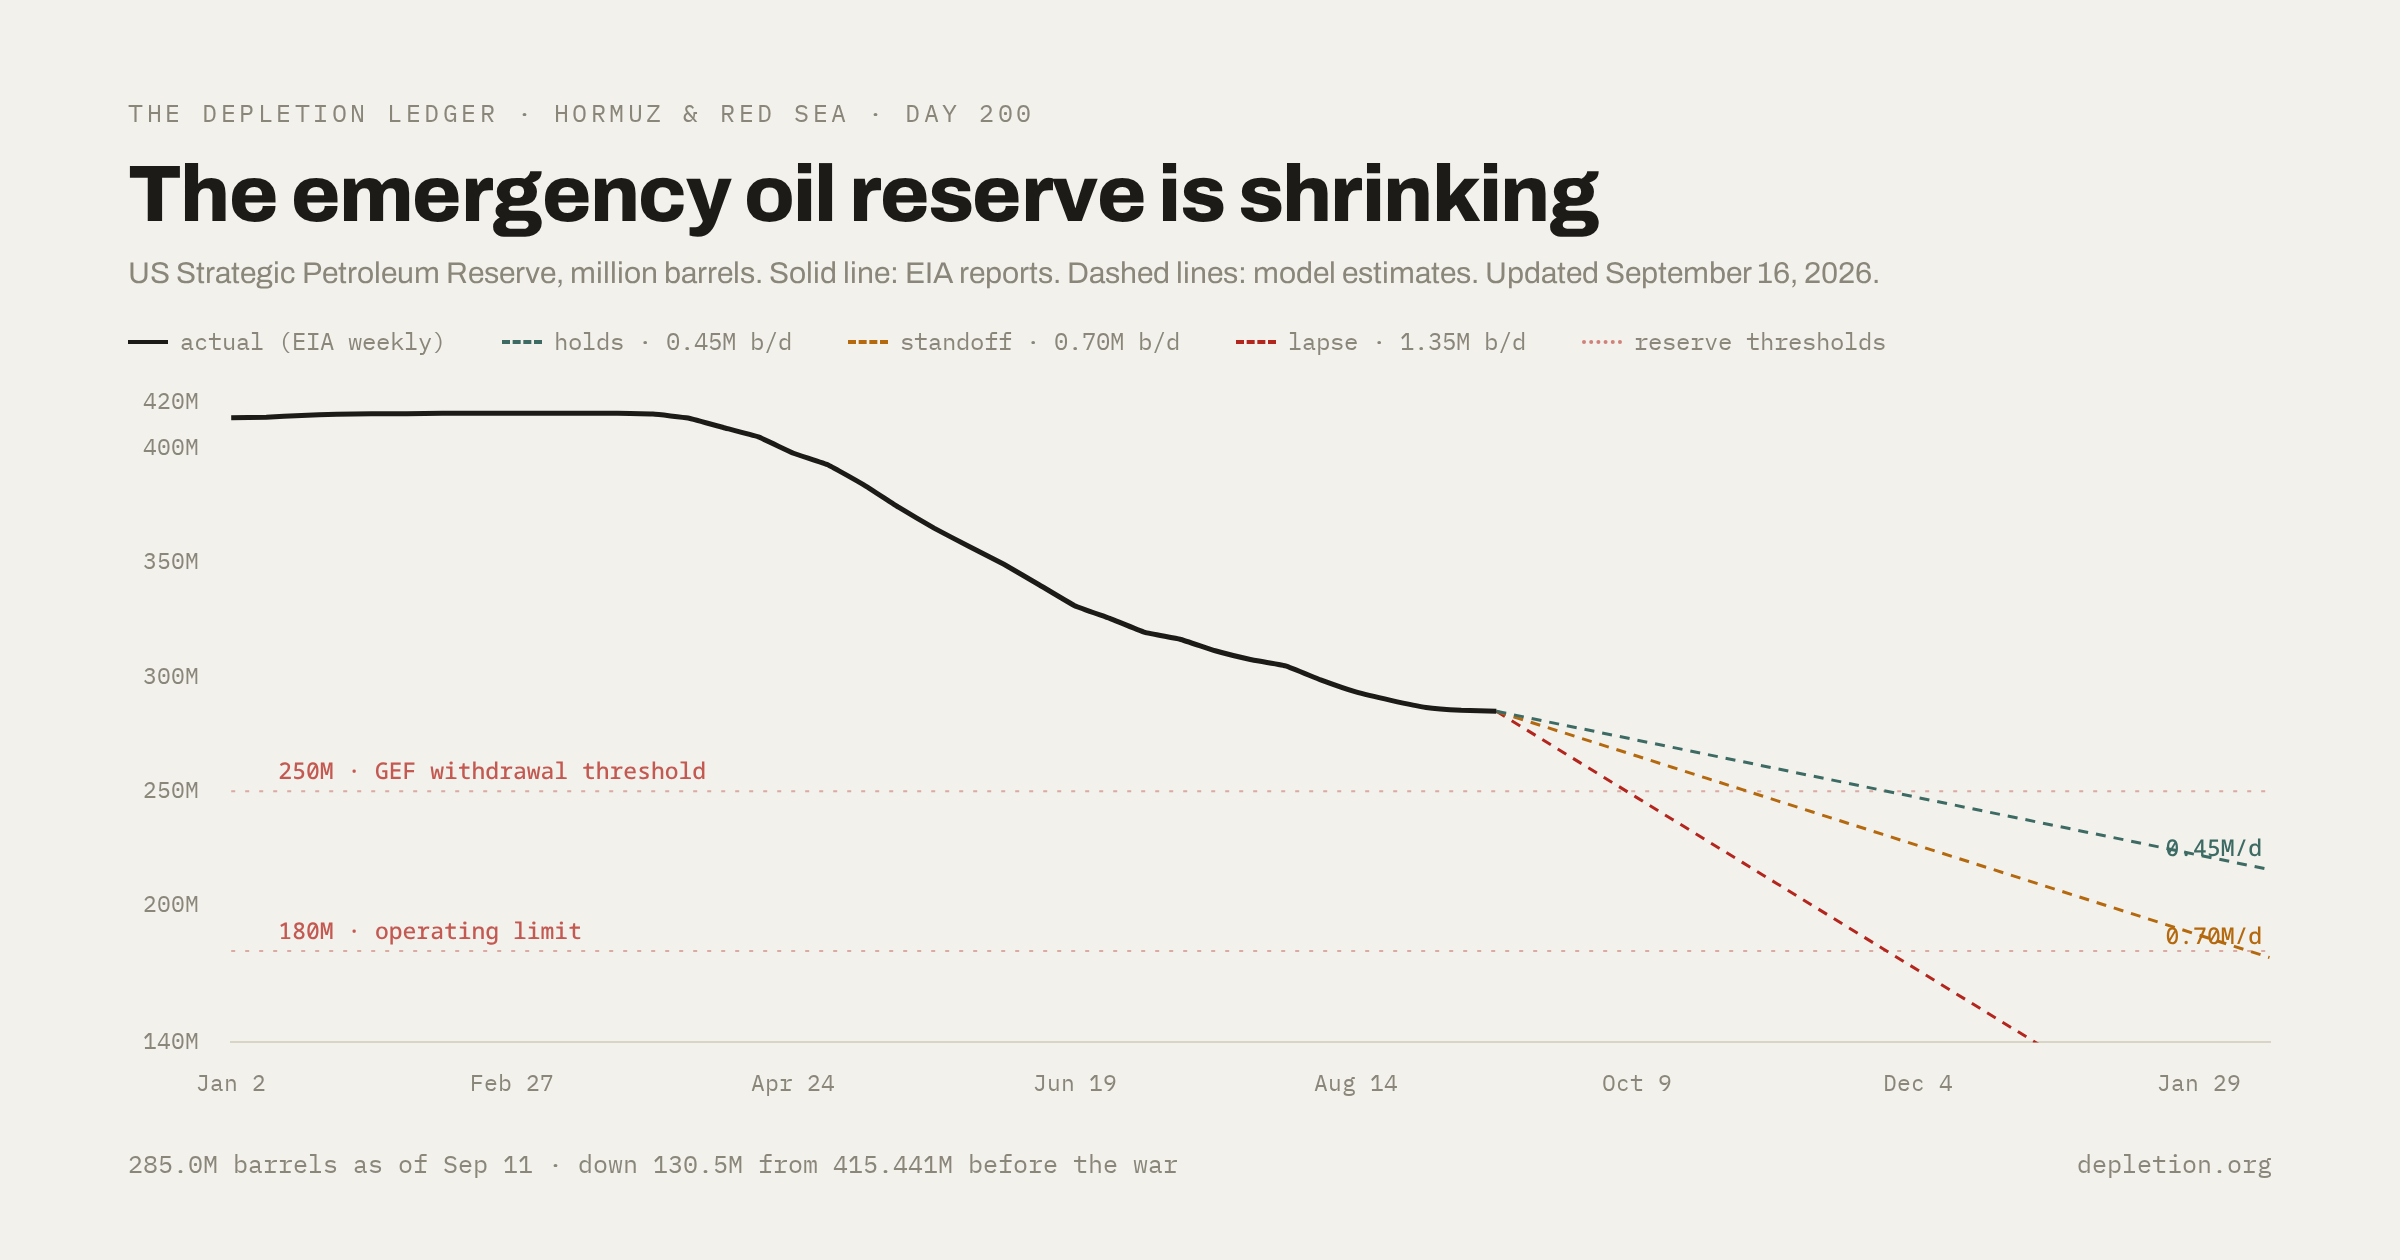
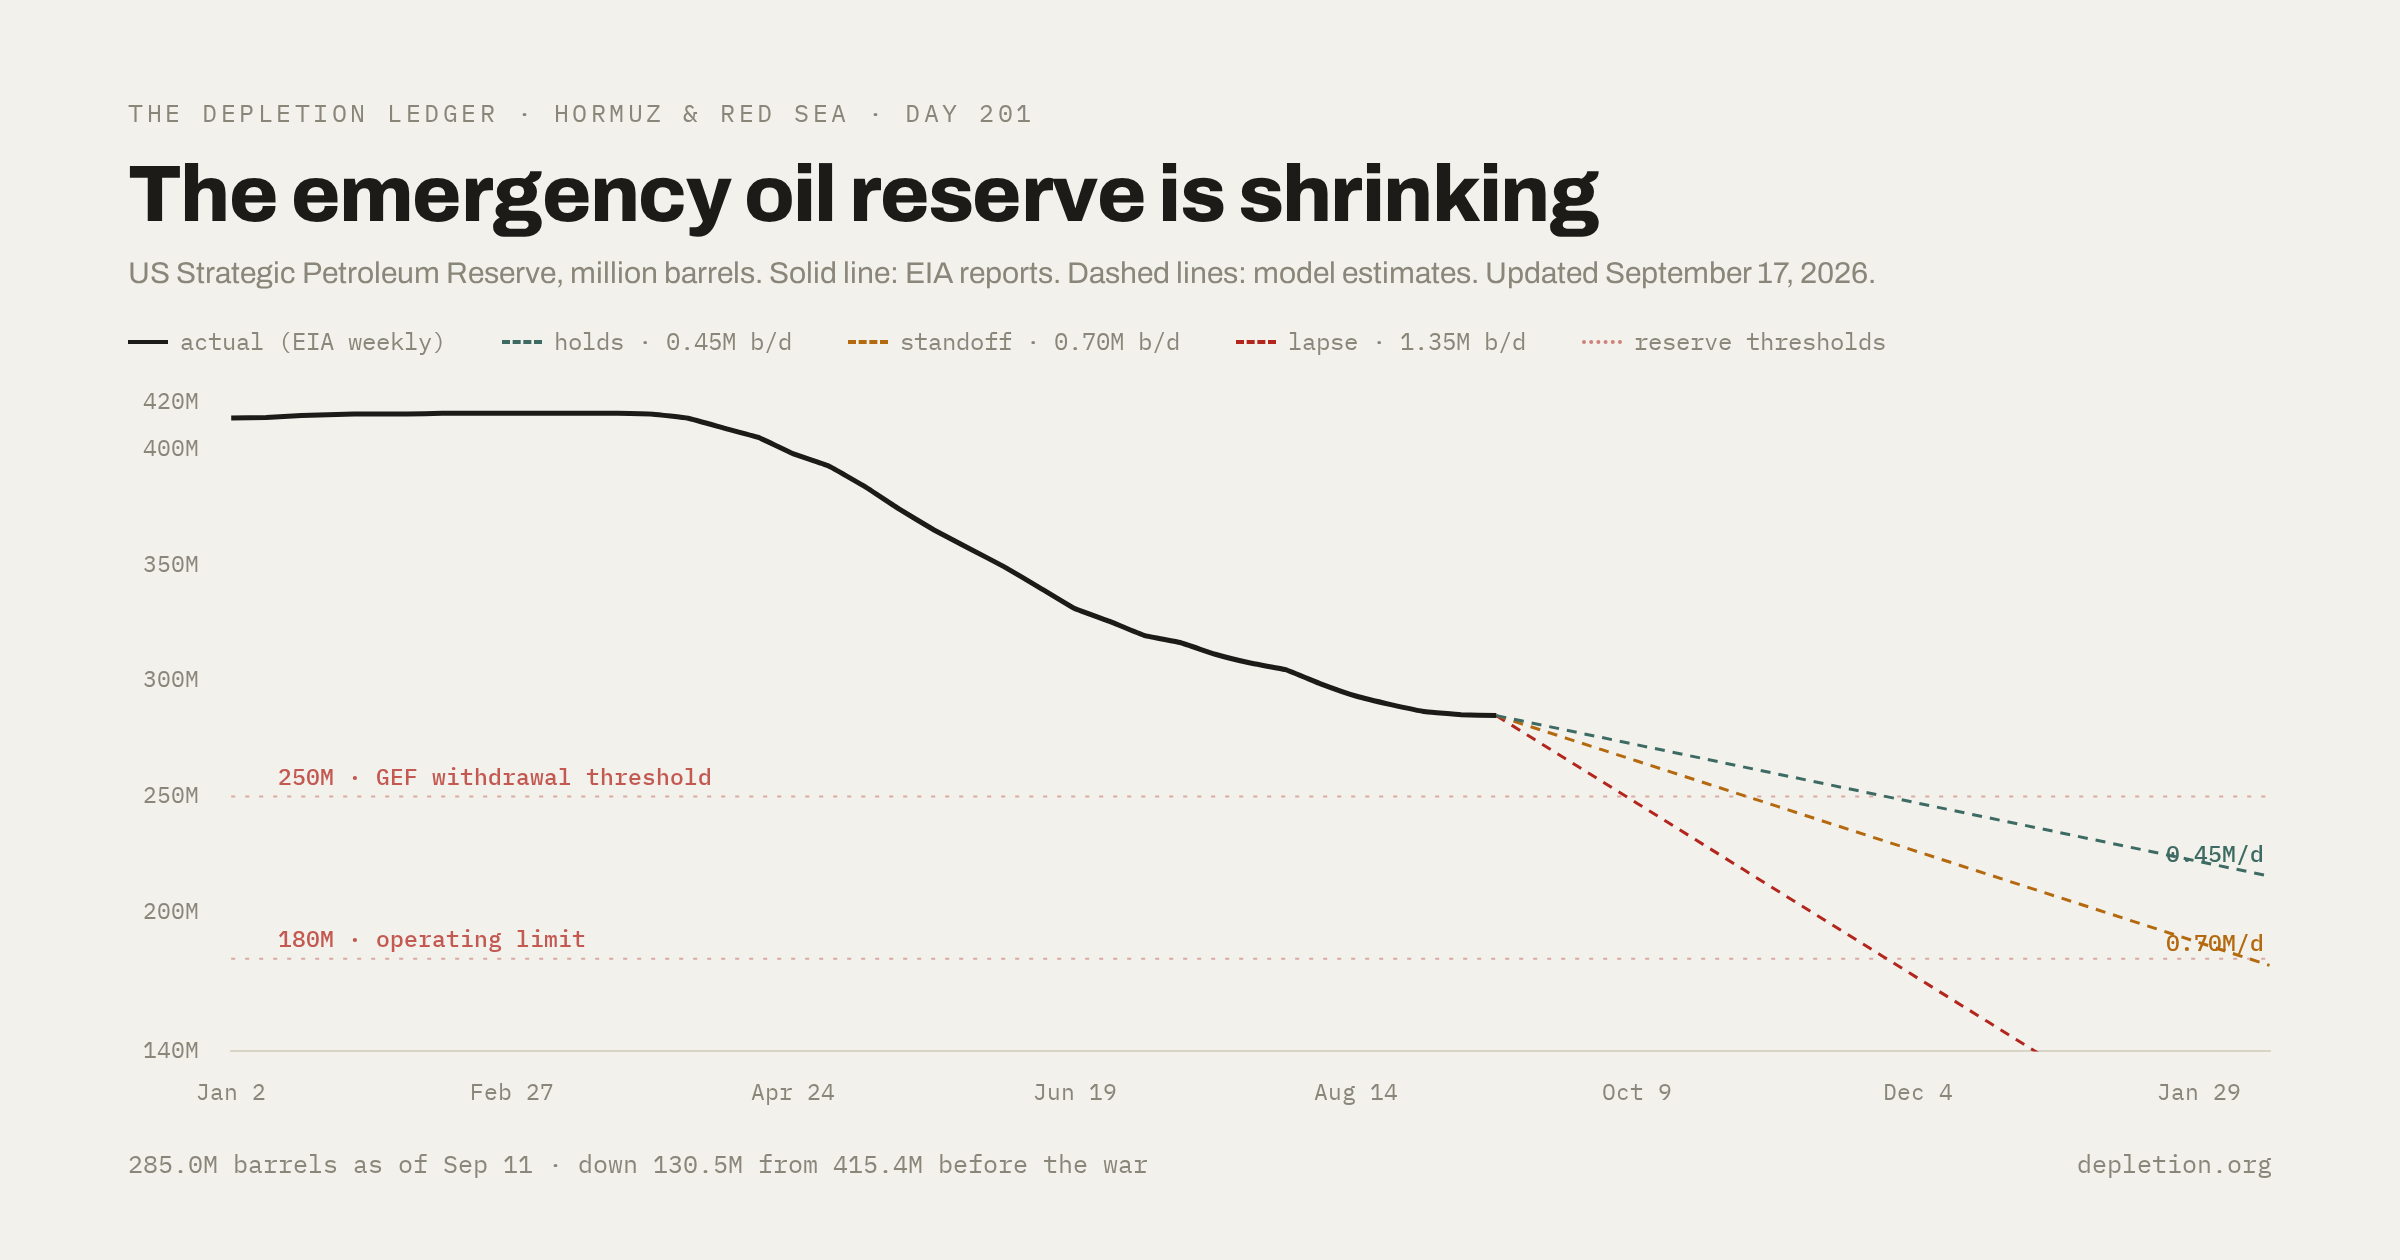
2026-09-17

diff --git a/site/src/data/crisis.ts b/site/src/data/crisis.ts
@@ -6,7 +6,7 @@
 // real observation with a source; `approx: true` marks a source's rounded estimate
 // (e.g. "Brent near $80 on Jun 22") and renders as a hollow marker.
 
-export const DATA_AS_OF = "2026-09-16";
+export const DATA_AS_OF = "2026-09-17";
 // War began Feb 28, 2026 (report: "Pre-war (Feb 28)"; ACLED damage inventory "since Feb 28"; IEA supply loss "since Feb").
 // Day count = days elapsed since Feb 28 → Sep 9, 2026 = Day 193.
 export const CRISIS_DAY_1 = "2026-02-28";
@@ -21,9 +21,9 @@ export interface SeriesPoint {
 
 // ---------- Headline stats ----------
 export const stats = [
-  { label: "Brent", value: "$105.83", sub: "Sep 16 settlement · −2.7% · +39% vs pre-crisis ~$76" },
-  { label: "US diesel (AAA)", value: "$6.31", sub: "Sep 16 · all-time record $6.3103 · seventh day in a row · +70% vs pre-war $3.72" },
-  { label: "US gasoline (AAA)", value: "$4.37", sub: "Sep 16 · +14¢ in a week (AAA) · +55% vs Jan $2.81" },
+  { label: "Brent", value: "$105.83", sub: "Sep 16 settlement · −2.7% vs. prior close $108.75 (Sep 15) · +39% vs pre-crisis ~$76" },
+  { label: "US diesel (AAA)", value: "$6.40", sub: "Sep 17 · all-time record $6.3956 · eighth day in a row · +72% vs pre-war $3.72" },
+  { label: "US gasoline (AAA)", value: "$4.44", sub: "Sep 17 · +16¢ in a week (AAA) · +58% vs Jan $2.81" },
   { label: "SPR", value: "285.0M", sub: "Sep 11 · down 0.4M in a week · down 130.5M from pre-war 415.4M · lowest since Nov 1982" },
   { label: "US diesel & heating oil", value: "107.9M", sub: "Sep 11 · up 1.6M in a week · 13.5% below last year · East Coast stocks 31% below last year" },
 ];
@@ -166,6 +166,7 @@ export const gasolineYtd: SeriesPoint[] = [
   { date: "2026-09-14", value: 4.3163, note: "AAA release Sep 14 (logged)" },
   { date: "2026-09-15", value: 4.3289, note: "AAA release, Sep 15" },
   { date: "2026-09-16", value: 4.3672, note: "AAA release, Sep 16" },
+  { date: "2026-09-17", value: 4.4386, note: "AAA release, Sep 17" },
 ];
 export const gasolinePreCrisis = 2.81; // Jan 2026 monthly avg (BTS/EIA)
 
@@ -189,6 +190,7 @@ export const dieselYtd: SeriesPoint[] = [
   { date: "2026-09-14", value: 6.2301, note: "AAA record — fifth consecutive day" },
   { date: "2026-09-15", value: 6.2694, note: "AAA record — sixth consecutive day, up 36.8¢ from $5.9012 a week earlier" },
   { date: "2026-09-16", value: 6.3103, note: "AAA record — seventh consecutive day, first above $6.30, up 36.8¢ from $5.9424 a week earlier" },
+  { date: "2026-09-17", value: 6.3956, note: "AAA record — eighth consecutive day, up 41.8¢ from $5.9773 a week earlier" },
 ];
 export const dieselOldRecord = 5.85; // June 2022 AAA record (broken Sep 4)
 
@@ -394,7 +396,7 @@ export const worldBalance = [
 // sections), except the demand-destruction line: IEA OMR, Sep 11 edition
 export const billLedger = [
   { name: "Global commercial stocks", value: "−400M bbl", note: "year-to-date · EIA est. (Sep 9)" },
-  { name: "US Strategic Petroleum Reserve", value: "−129M bbl", note: "since Feb 28 · EIA" },
+  { name: "US Strategic Petroleum Reserve", value: "−130.5M bbl", note: "since Feb 28 · EIA" },
   { name: "IEA coordinated release", value: "400M bbl", note: "pulled from 32 countries · IEA" },
   { name: "China commercial stockpiles", value: "~2–3M b/d", note: "withdrawals inferred from customs data · official SPR untouched" },
   { name: "Decline in oil demand", value: "−2.5M b/d", note: "full-year 2026, cut from −1.6 in the August edition · IEA OMR, Sep 11" },
@@ -511,18 +513,19 @@ export const watchGroups: { when: string; items: WatchItem[] }[] = [
   {
     when: "Any day",
     items: [
-      { item: "An official repair estimate for the East–West pipeline. AP reports 3–5 weeks; industry sources cited by Reuters estimate five to six weeks for full repairs; Saudi officials have told reporters 'multiple weeks,' but no official damage assessment or repair schedule has been published — and the US energy secretary has called the outage 'measured in days.' Reuters reported on Sep 15 that shipments from Yanbu, the port supplied by the pipeline, had stopped. Aramco has also cancelled or delayed shipments to Europe scheduled for late September.", why: "The standoff scenario depends on this bypass. Rystad warns that prices could rise further if the disruption outlasts Yanbu's five to seven days of stored supplies. An official assessment that repairs will take only days would reverse the Sep 11 change in odds." },
-      { item: "A new date for the Gulf–Iran talks in Salalah, postponed from Sep 14. Iran says Saudi Arabia requested the delay because of events in Yemen.", why: "Resuming the talks could help restore tanker access through Hormuz." },
-      { item: "Shipping conditions after the Houthis captured the Hanish islands on Sep 13–14. The Houthis claim 85 vessels passed through Bab el-Mandeb in 72 hours. Missile and drone attacks on Saudi cities wounded 13 civilians on Sep 13–14.", why: "An attack on a non-Saudi vessel would raise the model's odds that the shipping corridor closes." },
-      { item: "How banks respond to the Sep 14 sanctions on Russia's VTB; Treasury is meeting with financial institutions this week.", why: "If banks stop handling VTB's payments, Iran loses channels for receiving oil revenue." },
-      { item: "How many ships are passing through Hormuz. Kpler/Reuters counted 7 vessels on Sep 14 (revised up from a preliminary count of 4) and 4 on Sep 15 — two in, two out, none a crude carrier or LNG tanker. A US official told Axios that an average of 40 ships a day transit under US guidance, exporting roughly 14 million barrels a day. Ship-tracking data shows far fewer.", why: "The official account and the tracking data give different pictures of shipping through Hormuz. A sustained drop below the current level would undercut the claimed volume." },
-      { item: "A new round of the SPR exchange program. About 133.6 million barrels of the announced 172-million-barrel program were awarded across five rounds (March–June). The June round awarded only 500,000 barrels of the 40 million offered. Existing deliveries may be nearing completion, but their remaining volume and end date haven't been confirmed. Companies must return the borrowed crude plus additional barrels under their contracts.", why: "New contracts and deliveries could increase withdrawals again. The amount awarded would show how much oil companies are willing to take under the offered terms." },
+      { item: "An official repair estimate for the East–West pipeline.", why: "The standoff scenario depends on this bypass. An official assessment that repairs will take only days would reverse the Sep 11 change in odds." },
+      { item: "A new date for the Gulf–Iran talks in Salalah, postponed from Sep 14.", why: "Resuming the talks could help restore tanker access through Hormuz." },
+      { item: "Whether attacks in Bab el-Mandeb spread to non-Saudi vessels.", why: "An attack on a non-Saudi vessel would raise the model's odds that the shipping corridor closes." },
+      { item: "How banks respond to the Sep 14 sanctions on Russia's VTB.", why: "If banks stop handling VTB's payments, Iran loses channels for receiving oil revenue." },
+      { item: "Whether US–Houthi talks lead to an easing of the blockade of Saudi ships.", why: "That would help shipping through Bab el-Mandeb and support the standoff scenario." },
+      { item: "Whether ship-tracking data supports US claims about traffic through Hormuz.", why: "Trackers and US officials report different levels of traffic. A sustained drop in crossings would undercut the claimed oil volume." },
+      { item: "New SPR exchange contracts and delivery schedules.", why: "Existing deliveries may be nearing completion, but the end date isn't confirmed. New deliveries could increase withdrawals." },
     ],
   },
   {
     when: "Sep 23",
     items: [
-      { item: "The EIA's report for the week ending Sep 18 — the first that partially covers the shutdown of Yanbu loadings. The last report showed a third straight week of slower SPR withdrawals (0.4M barrels) and a second weekly increase in diesel stocks. It doesn't yet show the pipeline shutdown's full effect.", why: "Watch for faster reserve withdrawals, a larger drop in commercial crude stocks, or falling diesel stocks. Those changes could show how the shutdown is affecting supplies. The Department of Energy could announce a change in withdrawals before the report." },
+      { item: "The EIA's report for the week ending Sep 18, the first to partially cover the shutdown of Yanbu loadings.", why: "Watch for faster SPR withdrawals, lower commercial crude stocks, or falling diesel stocks." },
     ],
   },
   {
@@ -534,19 +537,19 @@ export const watchGroups: { when: string; items: WatchItem[] }[] = [
   {
     when: "Oct 7",
     items: [
-      { item: "The EIA's first monthly outlook since the tanker attacks. Its oil price forecast of roughly $90 for the second half of the year is about $19 below Brent's latest closing price.", why: "Watch whether the EIA still expects shipping to continue despite restrictions." },
+      { item: "The EIA's next monthly oil outlook.", why: "Watch whether the EIA still expects shipping to continue despite restrictions." },
     ],
   },
   {
     when: "Nov 3",
     items: [
-      { item: "The US midterm elections — President Trump has said the war will end just after the elections.", why: "Watch whether fighting and diplomacy match the administration's stated timeline." },
+      { item: "The US midterm elections. President Trump has said the war will end just afterward.", why: "Watch whether fighting and diplomacy match the administration's stated timeline." },
     ],
   },
   {
     when: "Nov 30",
     items: [
-      { item: "Russia's jet-fuel export ban takes effect.", why: "Aviation fuel supplies tighten further as the world's remaining stocks run low." },
+      { item: "Russia's jet-fuel export ban takes effect.", why: "The ban further restricts aviation fuel supplies." },
     ],
   },
 ];

diff --git a/research/MODEL.md b/research/MODEL.md
@@ -78,7 +78,7 @@ These are the events being watched as of Sep 16:
 | Russia's Sep 30 fuel-ban decision; a widening gap between the EIA price outlook and market prices; or an adverse prediction-market result on Sep 14 or 30. | Could increase the odds that the corridor lapses. |
 | The Houthis blocking or attacking non-Saudi vessels in the Bab el-Mandeb, leaving both shipping routes closed. | Increases the odds that the corridor lapses. |
 
-The latest pipeline reports suggest repairs will take weeks. On Sep 14, the Associated Press cited unnamed officials who estimated 3–5 weeks to restore oil flows. Other estimates put it at more than 6 weeks. Satellite images show crews replacing a section of pipe.
+Reports give different timelines for restoring oil flows. On Sep 14, the Associated Press cited unnamed officials who estimated 3–5 weeks. On Sep 16, Bloomberg cited a person familiar with the matter who said Aramco was working around the damaged section. The aim was to restore roughly half the pipeline's capacity within days and full operation in about six weeks. Other estimates put repairs at more than 6 weeks. Satellite images show crews replacing a section of pipe.
 
 On Sep 15, Reuters reported that oil shipments from Yanbu, the port supplied by the pipeline, had been suspended. Aramco had also cancelled or delayed shipments to Europe scheduled for late September. Saudi officials have told reporters repairs will take weeks, but haven't published a damage assessment or a repair timetable; the US energy secretary has called the outage "measured in days."
 

diff --git a/site/src/content/docs/model.md b/site/src/content/docs/model.md
@@ -83,7 +83,7 @@ These are the events being watched as of Sep 16:
 | Russia's Sep 30 fuel-ban decision; a widening gap between the EIA price outlook and market prices; or an adverse prediction-market result on Sep 14 or 30. | Could increase the odds that the corridor lapses. |
 | The Houthis blocking or attacking non-Saudi vessels in the Bab el-Mandeb, leaving both shipping routes closed. | Increases the odds that the corridor lapses. |
 
-The latest pipeline reports suggest repairs will take weeks. On Sep 14, the Associated Press cited unnamed officials who estimated 3–5 weeks to restore oil flows. Other estimates put it at more than 6 weeks. Satellite images show crews replacing a section of pipe.
+Reports give different timelines for restoring oil flows. On Sep 14, the Associated Press cited unnamed officials who estimated 3–5 weeks. On Sep 16, Bloomberg cited a person familiar with the matter who said Aramco was working around the damaged section. The aim was to restore roughly half the pipeline's capacity within days and full operation in about six weeks. Other estimates put repairs at more than 6 weeks. Satellite images show crews replacing a section of pipe.
 
 On Sep 15, Reuters reported that oil shipments from Yanbu, the port supplied by the pipeline, had been suspended. Aramco had also cancelled or delayed shipments to Europe scheduled for late September. Saudi officials have told reporters repairs will take weeks, but haven't published a damage assessment or a repair timetable; the US energy secretary has called the outage "measured in days."
 
